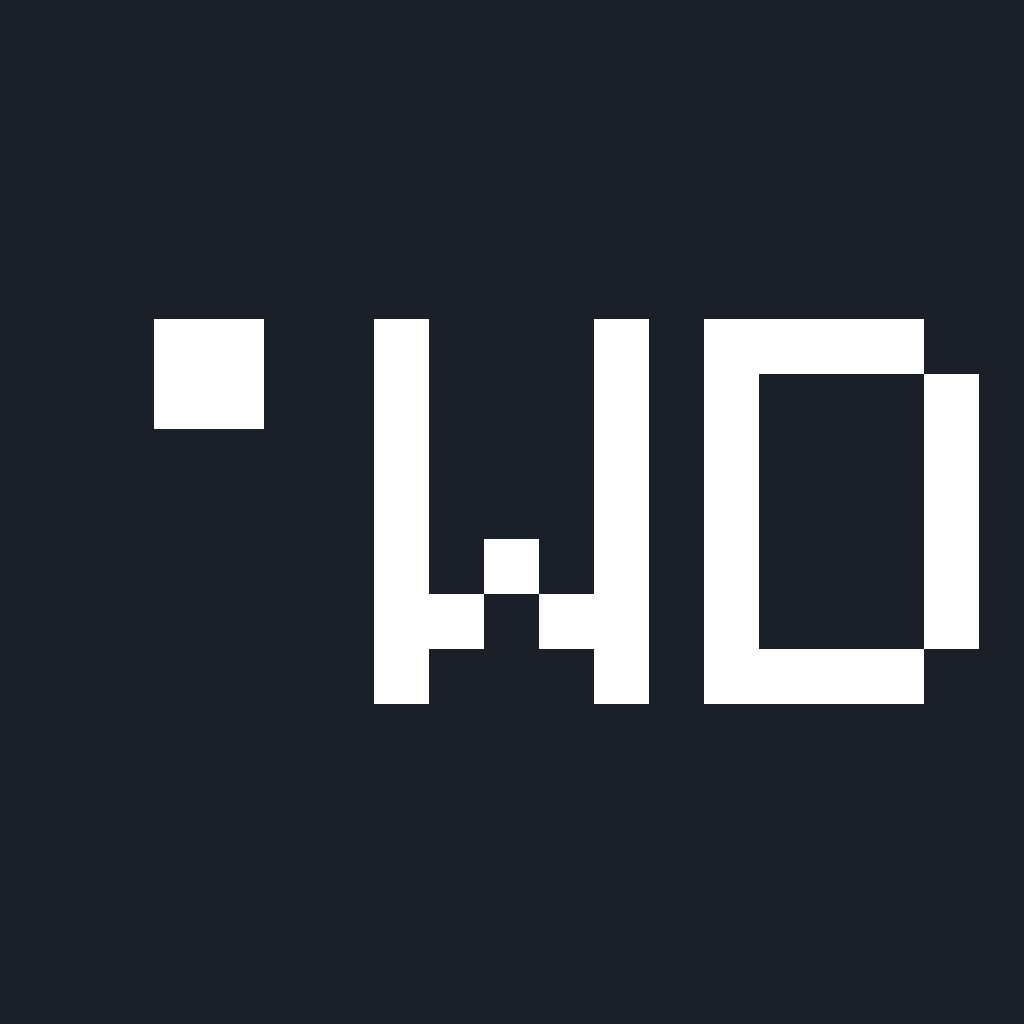
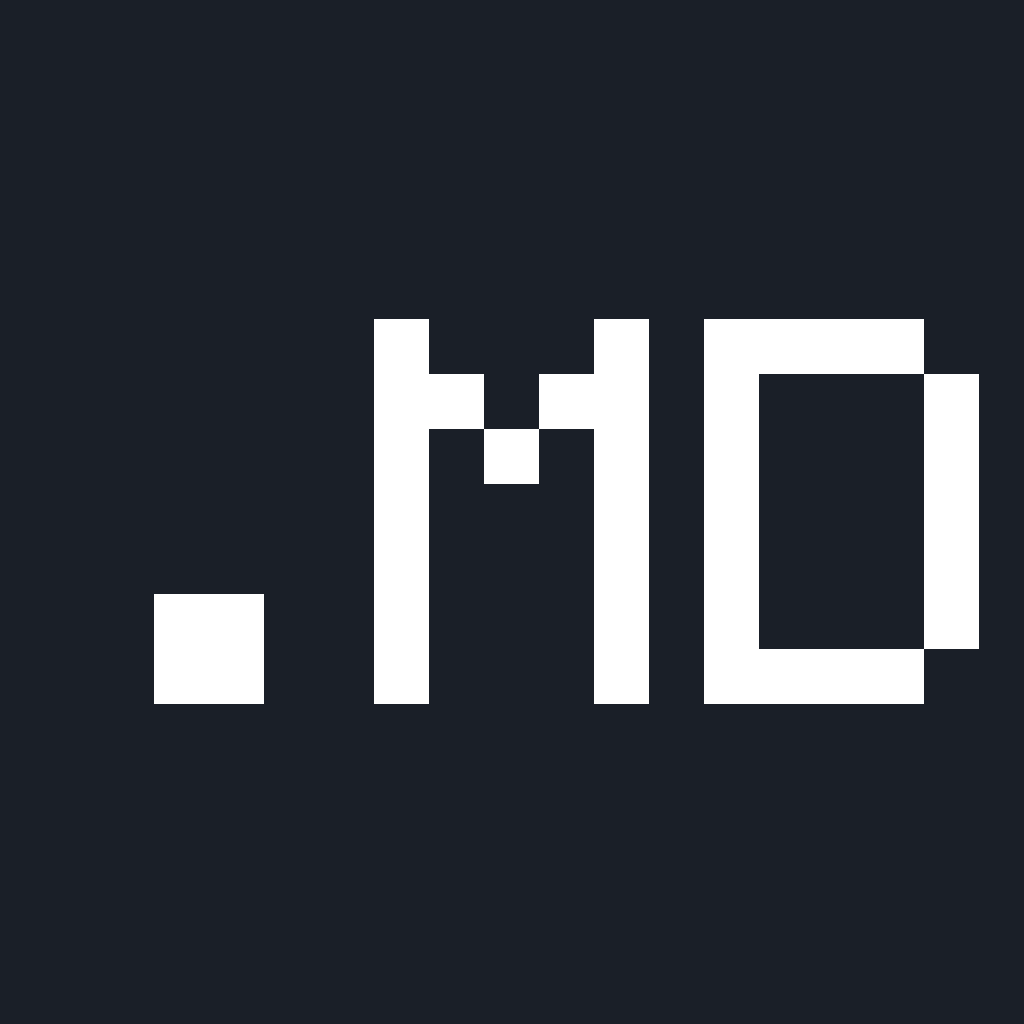
Update onboarding window and DMG layout

Changed region(s): [[0.4062, 0.3438, 0.5938, 0.6562], [0.125, 0.5625, 0.2812, 0.6875], [0.125, 0.3125, 0.2812, 0.4375]]

diff --git a/MarkdownPreviewer/ContentView.swift b/MarkdownPreviewer/ContentView.swift
@@ -5,17 +5,45 @@
 //  Created by Dominik Mazura on 05.01.2026.
 //
 
+import AppKit
 import SwiftUI
 
 struct ContentView: View {
     var body: some View {
-        VStack {
-            Image(systemName: "globe")
-                .imageScale(.large)
-                .foregroundStyle(.tint)
-            Text("Hello, world!")
+        VStack(alignment: .leading, spacing: 20) {
+            Label("Markdown Previewer", systemImage: "doc.text.magnifyingglass")
+                .font(.title2.weight(.semibold))
+
+            Text("Quick Look extension is installed with this app. To use it:")
+                .font(.body)
+
+            VStack(alignment: .leading, spacing: 8) {
+                Label("Keep the app in /Applications.", systemImage: "folder")
+                Label("Launch the app once after install.", systemImage: "play.circle")
+                Label("In Finder, select a .md file and press Space.", systemImage: "keyboard")
+            }
+            .font(.body)
+
+            HStack(spacing: 12) {
+                Button("Open Extensions Settings") {
+                    openExtensionsSettings()
+                }
+                Button("Open Finder") {
+                    NSWorkspace.shared.open(FileManager.default.homeDirectoryForCurrentUser)
+                }
+            }
+
+            Spacer()
         }
-        .padding()
+        .padding(24)
+        .frame(minWidth: 480, minHeight: 320)
+    }
+
+    private func openExtensionsSettings() {
+        guard let url = URL(string: "x-apple.systempreferences:com.apple.Extensions-Settings.extension?QuickLook") else {
+            return
+        }
+        NSWorkspace.shared.open(url)
     }
 }
 

diff --git a/scripts/generate_assets.py b/scripts/generate_assets.py
@@ -102,7 +102,7 @@ def draw_text(pixels, width, height, text, x, y, scale, color):
             for col in range(glyph_w):
                 if glyph[row][col] == "#":
                     px = cursor_x + col * scale
-                    py = y + (glyph_h - 1 - row) * scale
+                    py = y + row * scale
                     fill_rect(pixels, width, height, px, py, scale, scale, color)
         cursor_x += glyph_w * scale + spacing
 
@@ -132,8 +132,8 @@ def generate_dmg_background(path):
 
     arrow_color = (120, 128, 140, 255)
     center_y = int(height * 0.52)
-    start_x = int(width * 0.38)
-    end_x = int(width * 0.62)
+    start_x = 240
+    end_x = 400
     draw_line(pixels, width, height, start_x, center_y, end_x, center_y, arrow_color, thickness=6)
     draw_line(pixels, width, height, end_x, center_y, end_x - 18, center_y + 10, arrow_color, thickness=6)
     draw_line(pixels, width, height, end_x, center_y, end_x - 18, center_y - 10, arrow_color, thickness=6)
